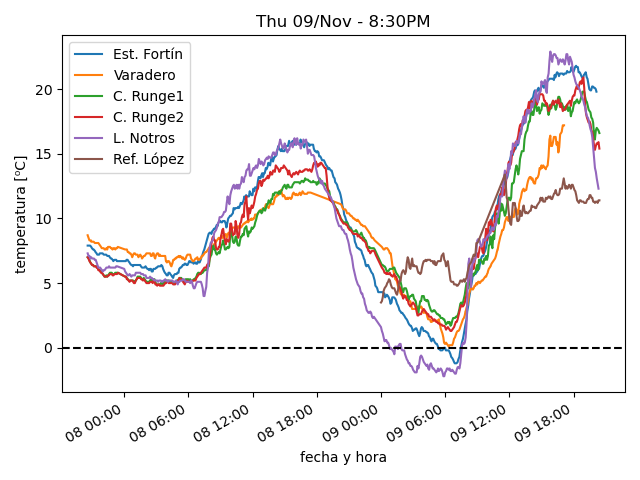
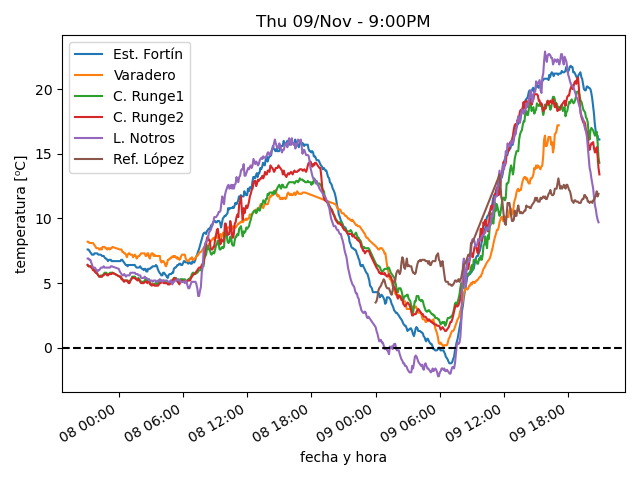
actualiza datos

diff --git a/estaciones/estacion6.html b/estaciones/estacion6.html
@@ -18,32 +18,32 @@
     </tr>
     <tr>
      <td class="stats_data">
-      8:25PM
+      8:50PM
      </td>
     </tr>
     <tr>
      <td class="stats_data">
-      11.4⁰C
+      11.9⁰C
      </td>
     </tr>
     <tr>
      <td class="stats_data">
-      -4.3⁰C
+      -3.5⁰C
      </td>
     </tr>
     <tr>
      <td class="stats_data">
-      33.0%
+      34.0%
      </td>
     </tr>
     <tr>
      <td class="stats_data">
-      1008.13hPa
+      1007.72hPa
      </td>
     </tr>
     <tr>
      <td class="stats_data">
-      9.7/17.7 km/hr W
+      20.9/32.2 km/hr WNW
      </td>
     </tr>
     <tr>
@@ -58,7 +58,7 @@
     </tr>
     <tr>
      <td class="stats_data">
-      902.0 W/m²
+      905.0 W/m²
      </td>
     </tr>
    </tbody>

diff --git a/estaciones/estacion1.html b/estaciones/estacion1.html
@@ -18,32 +18,32 @@
     </tr>
     <tr>
      <td class="stats_data">
-      8:08PM
+      8:54PM
      </td>
     </tr>
     <tr>
      <td class="stats_data">
-      19.8⁰C
+      16.1⁰C
      </td>
     </tr>
     <tr>
      <td class="stats_data">
-      -0.5⁰C
+      -1.1⁰C
      </td>
     </tr>
     <tr>
      <td class="stats_data">
-      25.5%
+      31.0%
      </td>
     </tr>
     <tr>
      <td class="stats_data">
-      1007.11hPa
+      1006.77hPa
      </td>
     </tr>
     <tr>
      <td class="stats_data">
-      0.7/2.4 km/hr SSE
+      4.3/8.0 km/hr NW
      </td>
     </tr>
     <tr>
@@ -58,7 +58,7 @@
     </tr>
     <tr>
      <td class="stats_data">
-      19.0 W/m²
+      0.0 W/m²
      </td>
     </tr>
    </tbody>

diff --git a/estaciones/estacion3.html b/estaciones/estacion3.html
@@ -18,32 +18,32 @@
     </tr>
     <tr>
      <td class="stats_data">
-      8:24PM
+      8:54PM
      </td>
     </tr>
     <tr>
      <td class="stats_data">
-      16.6⁰C
+      14.3⁰C
      </td>
     </tr>
     <tr>
      <td class="stats_data">
-      -1.6⁰C
+      1.5⁰C
      </td>
     </tr>
     <tr>
      <td class="stats_data">
-      28.8%
+      41.9%
      </td>
     </tr>
     <tr>
      <td class="stats_data">
-      999.32hPa
+      999.22hPa
      </td>
     </tr>
     <tr>
      <td class="stats_data">
-      2.3/3.5 km/hr WSW
+      3.1/3.7 km/hr SSW
      </td>
     </tr>
     <tr>
@@ -58,7 +58,7 @@
     </tr>
     <tr>
      <td class="stats_data">
-      11.3 W/m²
+      0.0 W/m²
      </td>
     </tr>
    </tbody>

diff --git a/estaciones/estacion4.html b/estaciones/estacion4.html
@@ -18,32 +18,32 @@
     </tr>
     <tr>
      <td class="stats_data">
-      8:24PM
+      8:54PM
      </td>
     </tr>
     <tr>
      <td class="stats_data">
-      15.4⁰C
+      13.4⁰C
      </td>
     </tr>
     <tr>
      <td class="stats_data">
-      -2.1⁰C
+      0.8⁰C
      </td>
     </tr>
     <tr>
      <td class="stats_data">
-      30.0%
+      41.9%
      </td>
     </tr>
     <tr>
      <td class="stats_data">
-      1008.53hPa
+      1008.33hPa
      </td>
     </tr>
     <tr>
      <td class="stats_data">
-      0.4/0.9 km/hr SW
+      0.4/0.9 km/hr SSW
      </td>
     </tr>
     <tr>
@@ -58,7 +58,7 @@
     </tr>
     <tr>
      <td class="stats_data">
-      8.8 W/m²
+      0.3 W/m²
      </td>
     </tr>
    </tbody>

diff --git a/estaciones/estacion5.html b/estaciones/estacion5.html
@@ -18,27 +18,27 @@
     </tr>
     <tr>
      <td class="stats_data">
-      8:20PM
+      8:50PM
      </td>
     </tr>
     <tr>
      <td class="stats_data">
-      12.3⁰C
+      9.7⁰C
      </td>
     </tr>
     <tr>
      <td class="stats_data">
-      1.7⁰C
+      1.8⁰C
      </td>
     </tr>
     <tr>
      <td class="stats_data">
-      48.0%
+      58.0%
      </td>
     </tr>
     <tr>
      <td class="stats_data">
-      1007.99hPa
+      1008.5hPa
      </td>
     </tr>
     <tr>
